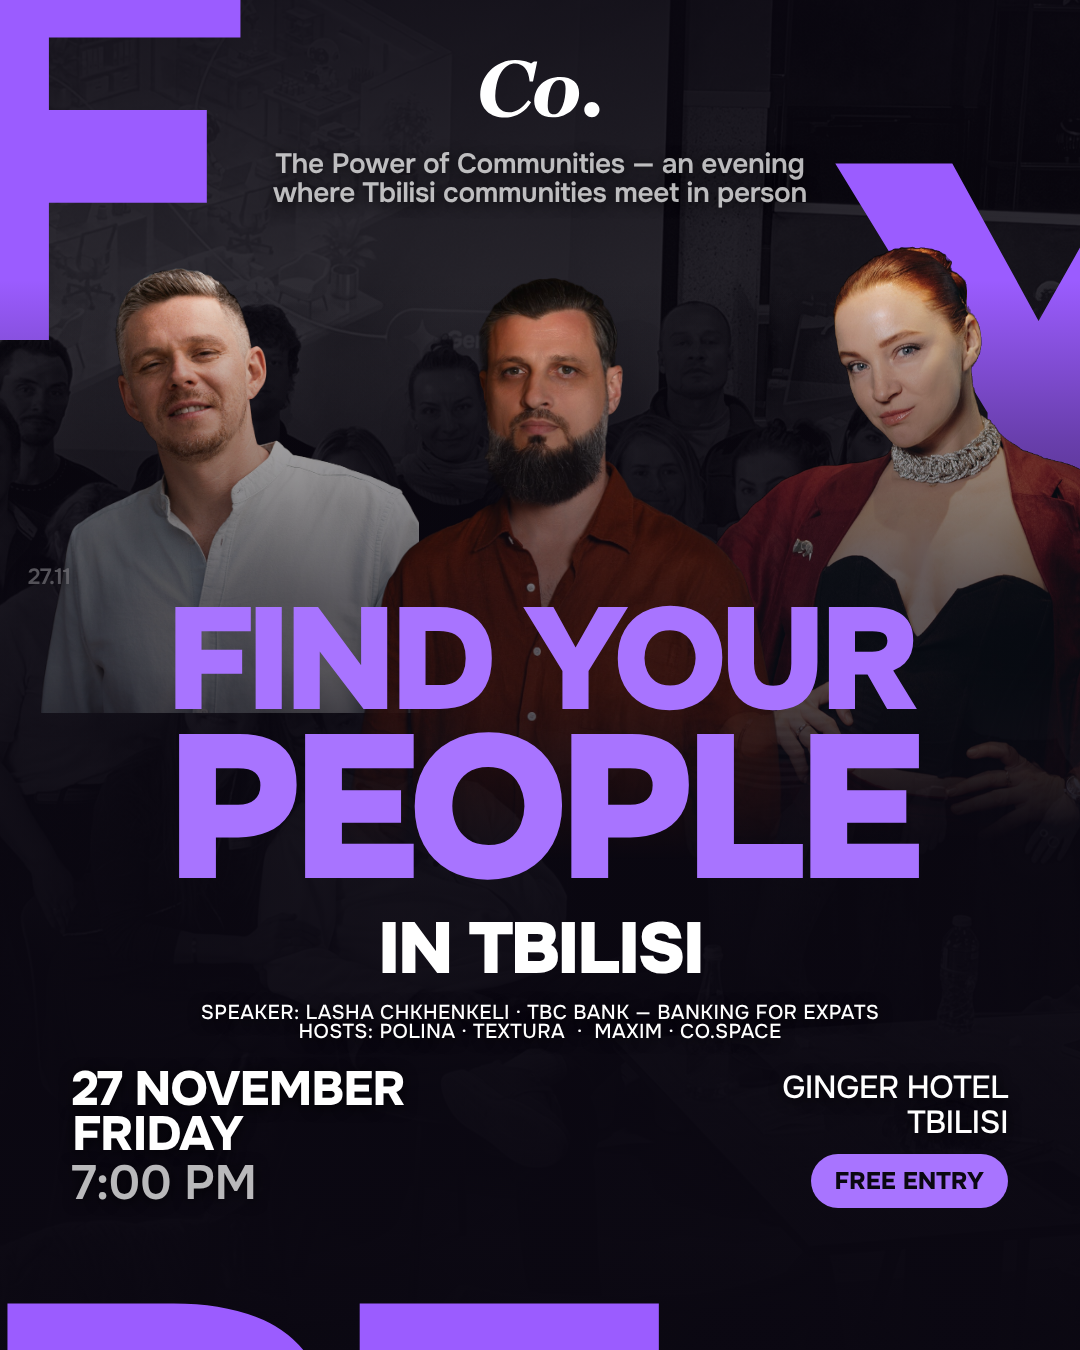
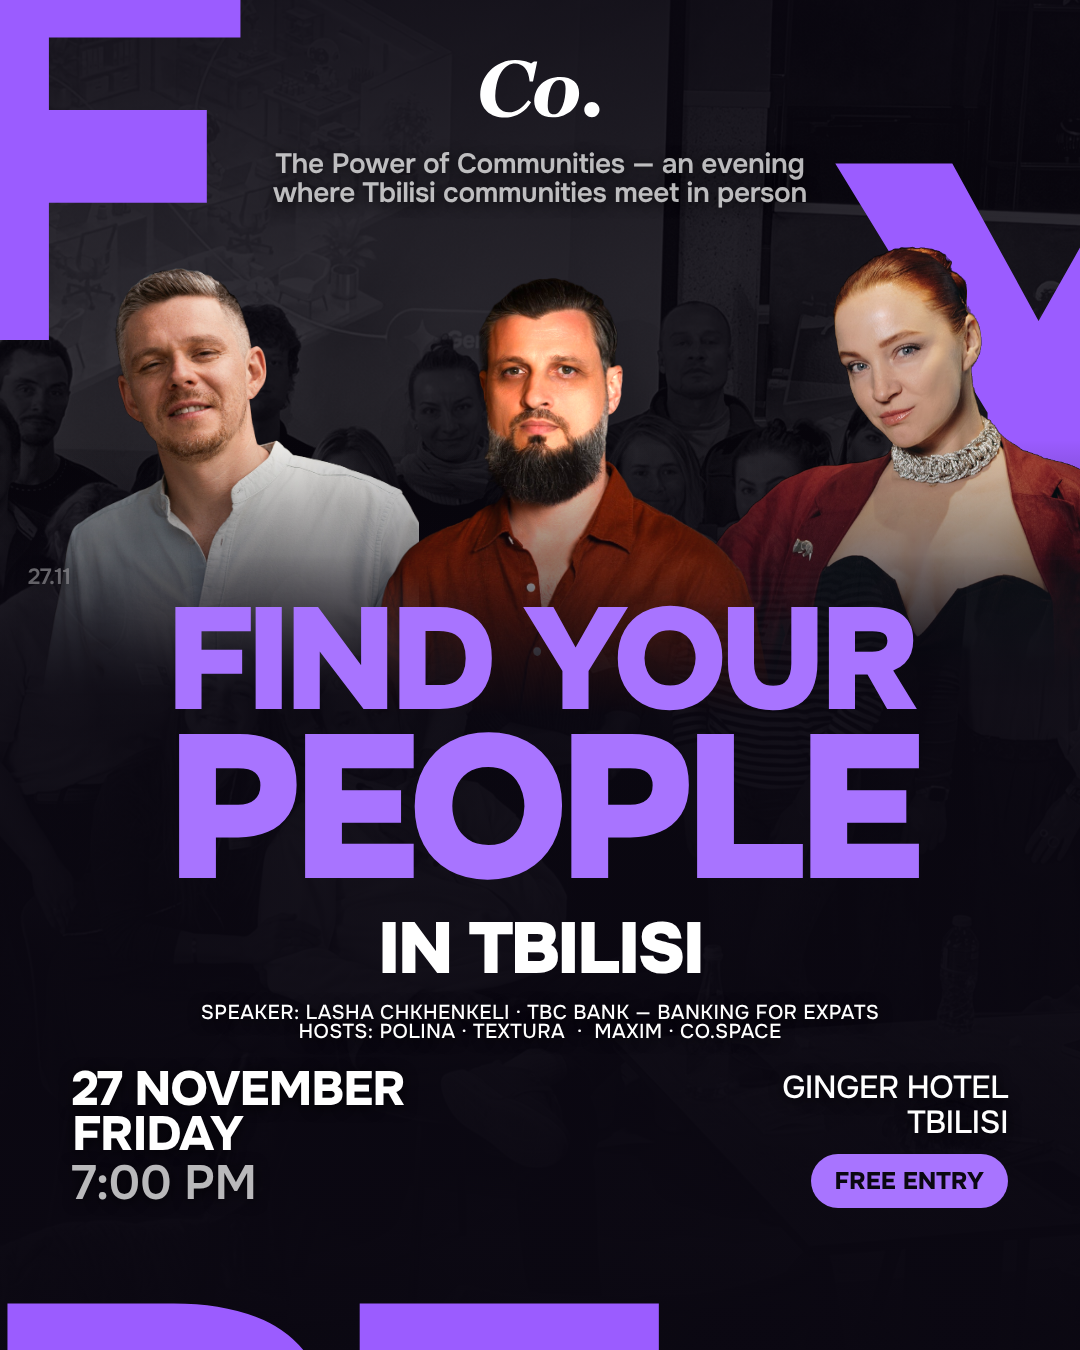
Find your people EN: мягче низ фигур, светлее Лаша
Claude-Session: https://claude.ai/code/session_01EUhV7vaX3V2s8FuVCAhgM5

diff --git a/creatives/src/poster/edP-en-9x16.html b/creatives/src/poster/edP-en-9x16.html
@@ -18,7 +18,7 @@ body{background:#0B0812}
 .dark{position:absolute;left:0;right:0;bottom:0;z-index:1}
 .flow{z-index:3}
 .logo svg path{fill:#fff}
-</style></head><body><div class="bg"></div><div class="sh"></div><div class="L" style="left:-110px;top:-60px;font-size:760px">F</div><div class="L" style="right:-170px;top:330px;font-size:760px">Y</div><div class="person" style="left:29px;top:490px;height:479px;-webkit-mask-image:linear-gradient(180deg,#000 91.9%,transparent 131.6%);"><img src="max_cut.png"></div><div class="person" style="left:628px;top:464px;height:798px;-webkit-mask-image:linear-gradient(180deg,#000 58.4%,transparent 82.2%);"><img src="polina_cut.png"></div><div class="person" style="left:317px;top:500px;height:915px;-webkit-mask-image:linear-gradient(180deg,#000 49.2%,transparent 70.0%);"><img src="lasha_cut.png"></div><div class="L" style="z-index:2;left:-40px;top:1760px;font-size:760px">PE</div><div class="abs t" style="left:0;right:0;top:365px;text-align:center;font-size:32px">The Power of Communities — an evening<br>where Tbilisi communities meet in person</div><div class="abs t" style="left:28px;top:866px;font-size:22px">27.11</div><div class="dark" style="top:580px;background:linear-gradient(180deg,rgba(11,8,18,0),rgba(11,8,18,.35) 160px,rgba(11,8,18,.62) 320px,rgba(11,8,18,.72) 70%,rgba(11,8,18,.85))"></div><div class="flow" style="top:900px">
+</style></head><body><div class="bg"></div><div class="sh"></div><div class="L" style="left:-110px;top:-60px;font-size:760px">F</div><div class="L" style="right:-170px;top:330px;font-size:760px">Y</div><div class="person" style="left:29px;top:490px;height:479px;-webkit-mask-image:linear-gradient(180deg,#000 64.7%,transparent 95.0%);"><img src="max_cut.png"></div><div class="person" style="left:628px;top:464px;height:798px;-webkit-mask-image:linear-gradient(180deg,#000 42.1%,transparent 60.2%);"><img src="polina_cut.png"></div><div class="person" style="left:317px;top:500px;height:915px;-webkit-mask-image:linear-gradient(180deg,#000 35.0%,transparent 50.8%);"><img src="lasha_cut.png" style="filter:brightness(1.35) contrast(1.05) saturate(1.05)"></div><div class="L" style="z-index:2;left:-40px;top:1760px;font-size:760px">PE</div><div class="abs t" style="left:0;right:0;top:365px;text-align:center;font-size:32px">The Power of Communities — an evening<br>where Tbilisi communities meet in person</div><div class="abs t" style="left:28px;top:866px;font-size:22px">27.11</div><div class="dark" style="top:740px;background:linear-gradient(180deg,rgba(11,8,18,0),rgba(11,8,18,.45) 120px,rgba(11,8,18,.7) 240px,rgba(11,8,18,.72) 70%,rgba(11,8,18,.85))"></div><div class="flow" style="top:900px">
 <span class="fit">FIND YOUR</span><span class="fit">PEOPLE</span>
 <div style="text-align:center;font-weight:900;font-size:88px;letter-spacing:-.04em;line-height:1;color:#fff;margin-top:14px">IN TBILISI</div>
 <div class="tb" style="font-weight:500;letter-spacing:.02em;text-align:center;font-size:22px;margin-top:18px">SPEAKER: LASHA CHKHENKELI · TBC BANK — BANKING FOR EXPATS<br>HOSTS: POLINA · TEXTURA &nbsp;·&nbsp; MAXIM · CO.SPACE</div>

diff --git a/creatives/src/poster/edP-en-4x5.html b/creatives/src/poster/edP-en-4x5.html
@@ -18,7 +18,7 @@ body{background:#0B0812}
 .dark{position:absolute;left:0;right:0;bottom:0;z-index:1}
 .flow{z-index:3}
 .logo svg path{fill:#fff}
-</style></head><body><div class="bg"></div><div class="sh"></div><div class="L" style="left:-90px;top:-70px;font-size:560px">F</div><div class="L" style="right:-140px;top:150px;font-size:560px">Y</div><div class="person" style="left:40px;top:268px;height:445px;-webkit-mask-image:linear-gradient(180deg,#000 90.3%,transparent 128.6%);"><img src="max_cut.png"></div><div class="person" style="left:647px;top:244px;height:742px;-webkit-mask-image:linear-gradient(180deg,#000 57.4%,transparent 80.4%);"><img src="polina_cut.png"></div><div class="person" style="left:333px;top:278px;height:850px;-webkit-mask-image:linear-gradient(180deg,#000 48.4%,transparent 68.4%);"><img src="lasha_cut.png"></div><div class="L" style="z-index:2;left:-30px;top:1290px;font-size:560px">PE</div><div class="abs t" style="left:0;right:0;top:150px;text-align:center;font-size:28px">The Power of Communities — an evening<br>where Tbilisi communities meet in person</div><div class="abs t" style="left:28px;top:566px;font-size:22px">27.11</div><div class="dark" style="top:280px;background:linear-gradient(180deg,rgba(11,8,18,0),rgba(11,8,18,.35) 160px,rgba(11,8,18,.62) 320px,rgba(11,8,18,.72) 70%,rgba(11,8,18,.85))"></div><div class="flow" style="top:600px">
+</style></head><body><div class="bg"></div><div class="sh"></div><div class="L" style="left:-90px;top:-70px;font-size:560px">F</div><div class="L" style="right:-140px;top:150px;font-size:560px">Y</div><div class="person" style="left:40px;top:268px;height:445px;-webkit-mask-image:linear-gradient(180deg,#000 64.5%,transparent 96.0%);"><img src="max_cut.png"></div><div class="person" style="left:647px;top:244px;height:742px;-webkit-mask-image:linear-gradient(180deg,#000 41.9%,transparent 60.8%);"><img src="polina_cut.png"></div><div class="person" style="left:333px;top:278px;height:850px;-webkit-mask-image:linear-gradient(180deg,#000 34.9%,transparent 51.4%);"><img src="lasha_cut.png" style="filter:brightness(1.35) contrast(1.05) saturate(1.05)"></div><div class="L" style="z-index:2;left:-30px;top:1290px;font-size:560px">PE</div><div class="abs t" style="left:0;right:0;top:150px;text-align:center;font-size:28px">The Power of Communities — an evening<br>where Tbilisi communities meet in person</div><div class="abs t" style="left:28px;top:566px;font-size:22px">27.11</div><div class="dark" style="top:440px;background:linear-gradient(180deg,rgba(11,8,18,0),rgba(11,8,18,.45) 120px,rgba(11,8,18,.7) 240px,rgba(11,8,18,.72) 70%,rgba(11,8,18,.85))"></div><div class="flow" style="top:600px">
 <span class="fit">FIND YOUR</span><span class="fit">PEOPLE</span>
 <div style="text-align:center;font-weight:900;font-size:72px;letter-spacing:-.04em;line-height:1;color:#fff;margin-top:14px">IN TBILISI</div>
 <div class="tb" style="font-weight:500;letter-spacing:.02em;text-align:center;font-size:20px;margin-top:18px">SPEAKER: LASHA CHKHENKELI · TBC BANK — BANKING FOR EXPATS<br>HOSTS: POLINA · TEXTURA &nbsp;·&nbsp; MAXIM · CO.SPACE</div>

diff --git a/creatives/src/poster/build_editorial_purple_en.py b/creatives/src/poster/build_editorial_purple_en.py
@@ -59,11 +59,11 @@ def poster_purple(fmt):
     else:
         s.append('<div class="L" style="left:-90px;top:-70px;font-size:560px">F</div>')
         s.append('<div class="L" style="right:-140px;top:150px;font-size:560px">Y</div>')
-    fade = (330, 520) if story else (300, 470)
+    fade = (200, 345) if story else (185, 325)
     F = int(F * .88)
     s.append(place(MCUT, F, 190, fy, "max_cut.png", fade))
     s.append(place(PCUT, F, 890, fy, "polina_cut.png", fade))
-    s.append(place((950, 1789, 0.4589, 0.1314, 0.1705), F, 540, fy + 20, "lasha_cut.png", fade).replace('class="person"', 'class="person" style="z-index:1"', 1) if False else place((950, 1789, 0.4589, 0.1314, 0.1705), F, 540, fy + 20, "lasha_cut.png", fade))
+    s.append(place((950, 1789, 0.4589, 0.1314, 0.1705), F, 540, fy + 20, "lasha_cut.png", fade).replace('class="person"', 'class="person" style="z-index:1"', 1) if False else place((950, 1789, 0.4589, 0.1314, 0.1705), F, 540, fy + 20, "lasha_cut.png", fade).replace('<img src="../lasha_cut.png"', '<img src="../lasha_cut.png" style="filter:brightness(1.35) contrast(1.05) saturate(1.05)"').replace('<img src="lasha_cut.png"', '<img src="lasha_cut.png" style="filter:brightness(1.35) contrast(1.05) saturate(1.05)"'))
     # передние нижние буквы
     if story:
         s.append('<div class="L" style="z-index:2;left:-40px;top:1760px;font-size:760px">PE</div>')
@@ -76,7 +76,7 @@ def poster_purple(fmt):
     s.append(f'<div class="abs t" style="left:28px;top:{ty - 34}px;font-size:22px">27.11</div>')
     cs = 88 if story else 72
     ds = 60 if story else 48
-    s.append(f'<div class="dark" style="top:{ty - 320}px;background:linear-gradient(180deg,rgba(11,8,18,0),rgba(11,8,18,.35) 160px,rgba(11,8,18,.62) 320px,rgba(11,8,18,.72) 70%,rgba(11,8,18,.85))"></div>')
+    s.append(f'<div class="dark" style="top:{ty - 160}px;background:linear-gradient(180deg,rgba(11,8,18,0),rgba(11,8,18,.45) 120px,rgba(11,8,18,.7) 240px,rgba(11,8,18,.72) 70%,rgba(11,8,18,.85))"></div>')
     s.append(f'''<div class="flow" style="top:{ty}px">
 <span class="fit">FIND YOUR</span><span class="fit">PEOPLE</span>
 <div style="text-align:center;font-weight:900;font-size:{cs}px;letter-spacing:-.04em;line-height:1;color:#fff;margin-top:14px">IN TBILISI</div>
